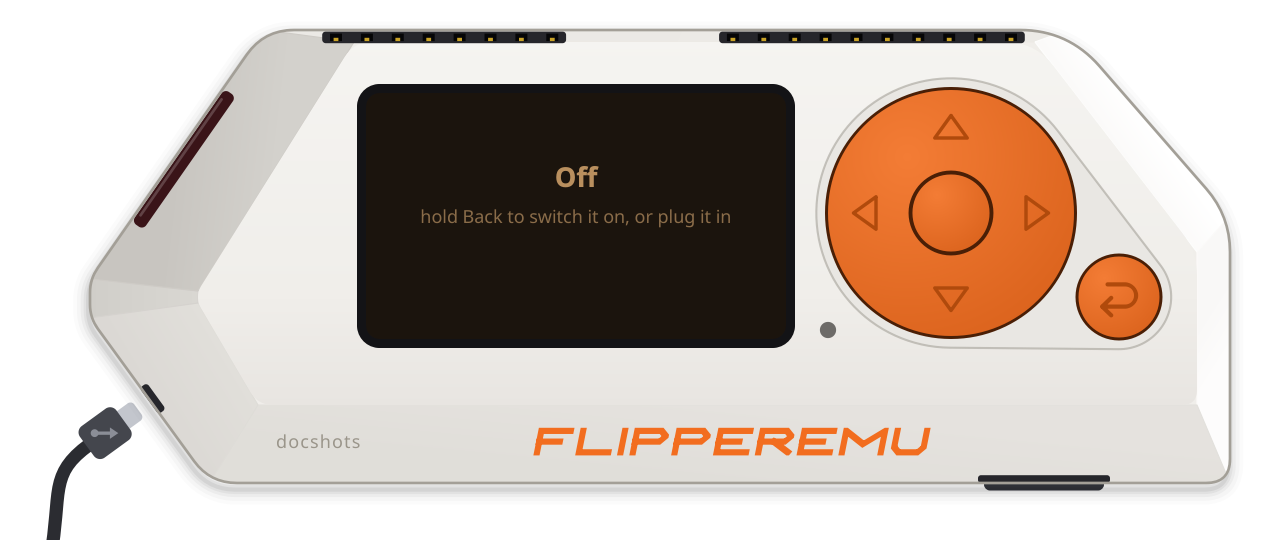
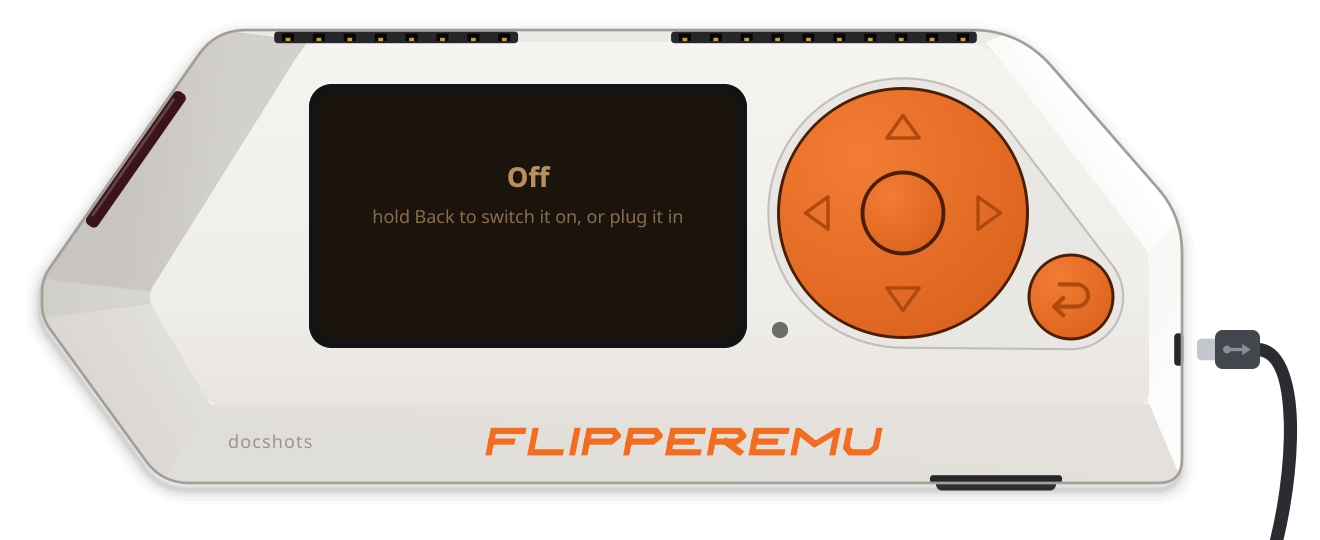
The window: the USB port is in the right side
A Flipper's USB port is in its upright right side, not in the nose: the
drawing had it in the lower left face, where the plug and the cable are
not on a real one.

The port, its plug and the cable are now in the middle of the right
side, and the cable hangs down from there; the picture is a little wider
at the right to have room for it.  What draws them is as it was, in a
frame of its own that is now not at an angle.  The help text, the README
and its five pictures of the window say and show the new place.

scripts/gui_check.py passes on official 1.5.1 (17 of 17).

diff --git a/scripts/fe_gui_view.py b/scripts/fe_gui_view.py
@@ -4,8 +4,8 @@ FlipperView is the widget in the middle of the window (fe_gui.py).  It shows
 what the front-panel link reports: the picture on the LCD, the backlight, the
 LED, the vibration motor, the speaker.  It turns the mouse and the keyboard
 into button presses, and its ports are where a Flipper has them, to click:
-the USB plug in the lower face of its nose, the infrared window in the upper
-one, the GPIO sockets along the top, the microSD card at the bottom right.
+the USB plug in its right side, the infrared window in the upper face of its
+nose, the GPIO sockets along the top, the microSD card at the bottom right.
 
 The drawing is this project's own, with the proportions of the real thing: a
 body that narrows to a blunt nose at the left and has its top right corner cut
@@ -23,12 +23,12 @@ from PySide6.QtGui import QColor, QPainter, QPainterPath, QPen, QTransform
 
 # ---- where everything is, in LCD pixels
 
-VIEW_W, VIEW_H = 424, 180
-BX, BY, BW, BH = 30.0, 10.0, 380.0, 151.0       # the box around its body
+VIEW_W, VIEW_H = 440, 180                       # (room at the right: the cable)
+BX, BY, BW, BH = 14.0, 10.0, 380.0, 151.0       # the box around its body
 
 # Its outline, clockwise from the top left, and how far each corner's round
 # reaches.  The nose is at the left: the face above it has the infrared
-# window, the face below it the USB port.
+# window.  The right side is upright: the USB port is in the middle of it.
 OUTLINE = ((58, 0, 10), (326, 0, 16), (380, 62, 12), (380, 151, 8),
            (40, 151, 9), (0, 96, 4.5), (0, 83, 4.5))
 # The flat front.  Between the two are the faces that slope away to the
@@ -58,12 +58,11 @@ SD_X, SD_W, SD_H = BX + 298, 40.0, 20.0         # the card, in the bottom edge
 SD_OUT = (2.5, 13.0)                            # how far it shows: in, pulled
 USB_OUT = 11.0                                  # how far an unplugged plug is
 
-# The two faces of the nose are at an angle, and so is what is in them: each
-# is drawn in a frame of its own.  USB: the origin is the port, x points out
-# of it.  Infrared: the origin is the middle of the window, x runs along the
-# edge, y points into the body.
-USB_T = QTransform().translate(BX + 20, BY + 123.5).rotate(
-    math.degrees(math.atan2(40, -55)))
+# What is in an edge is drawn in a frame of its own.  USB, in the right side:
+# the origin is the port, x points out of it.  Infrared, in the upper face of
+# the nose, which is at an angle: the origin is the middle of the window, x
+# runs along the edge, y points into the body.
+USB_T = QTransform().translate(BX + BW, BY + 106.5)
 IR_T = QTransform().translate(BX + 29, BY + 41.5).rotate(
     math.degrees(math.atan2(-83, 58)))
 IR_WINDOW = QRectF(-27, 0.5, 54, 4.6)
@@ -586,14 +585,14 @@ class FlipperView(QtWidgets.QWidget):
             p.restore()
 
     def draw_cable(self, p, t):
-        """The USB plug in the lower face of the nose, or a little way out"""
+        """The USB plug in the right side, or a little way out of it"""
         out = 0.0 if self.cable != "unplugged" else USB_OUT
         end = USB_T.map(QPointF(out + 14, 0))
         wire = QPainterPath()                   # it hangs down, off the picture
         wire.moveTo(end)
-        wire.cubicTo(USB_T.map(QPointF(out + 31, 0)),
-                     QPointF(end.x() - 9, VIEW_H - 16),
-                     QPointF(end.x() - 13, VIEW_H + 6))
+        wire.cubicTo(QPointF(end.x() + 15, end.y()),
+                     QPointF(end.x() + 13, VIEW_H - 22),
+                     QPointF(end.x() + 5, VIEW_H + 6))
         p.setPen(QPen(QColor("#2b2c31"), 4.4, Qt.SolidLine, Qt.RoundCap))
         p.setBrush(Qt.NoBrush)
         p.drawPath(wire)

diff --git a/scripts/fe_gui.py b/scripts/fe_gui.py
@@ -76,8 +76,8 @@ real one: Back held for 5 seconds on the desktop offers to switch it off.</p>
 Left held after letting go of Back and it starts in DFU mode.</p>
 <p>When it is <b>off</b>, hold Back to switch it on, or plug its USB cable in
 (click the plug).</p>
-<p>Its ports are where a real one has them. Click the <b>USB plug</b> in the
-lower left face of its nose to plug it in and out, the <b>microSD card</b>
+<p>Its ports are where a real one has them. Click the <b>USB plug</b> in its
+right side to plug it in and out, the <b>microSD card</b>
 at the bottom right to pull it out and push it back, the <b>infrared
 window</b> in the upper left face to point a remote at it, and the <b>GPIO
 pins</b> along the top for what the firmware logs (it comes out of two of

diff --git a/README.md b/README.md
@@ -207,7 +207,7 @@ instead, and `--headless` no window at all.
   Power, a flat battery off USB), the window stays and shows it off. Hold Back to switch
   it on, or plug its USB cable in. It starts with its battery as it was, and with the
   cards, tags and keys that were held to it.
-- **The USB plug** in the lower left face of its nose: click it to unplug the cable,
+- **The USB plug** in its right side: click it to unplug the cable,
   again to plug it back in. The USB menu also has a charger (power without data).
   Unplugged, the Flipper runs on its battery and sleeps deeply when idle.
 - **The microSD card** at the bottom right: click it to pull it out (as rudely as a
